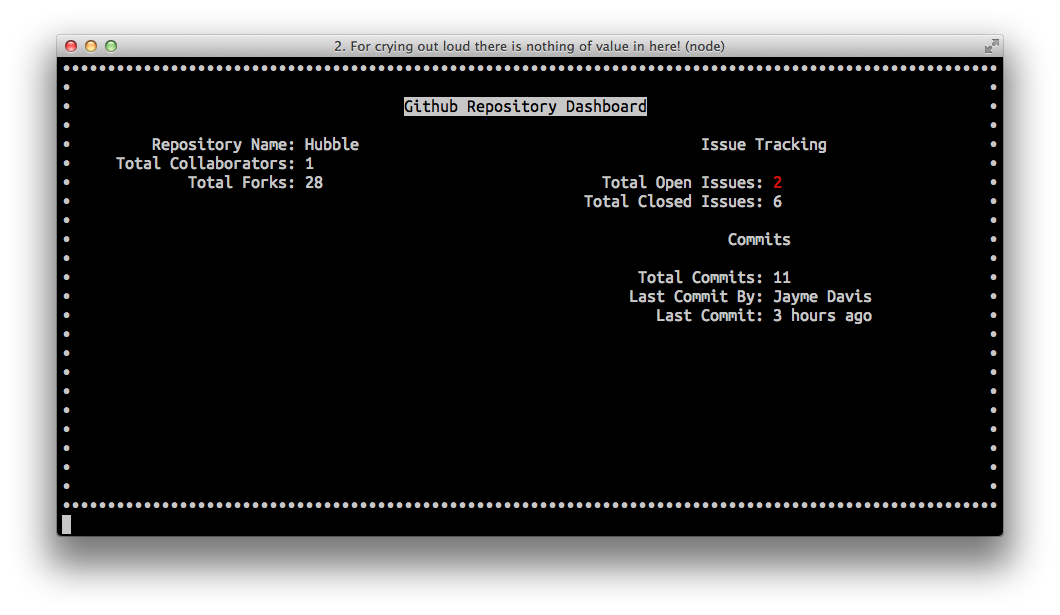
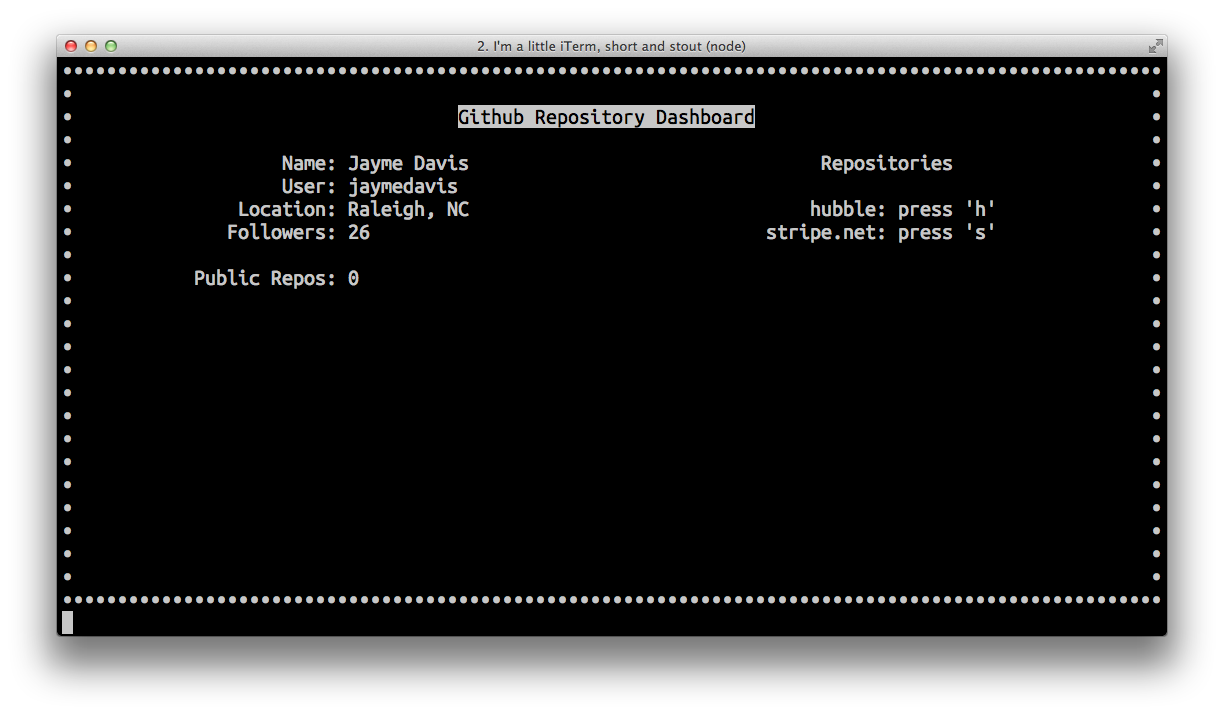
finished 'screen' feature, bumped version and updated readme

diff --git a/README.md b/README.md
@@ -72,6 +72,11 @@ If the value has been set and you want to increment it by one, you can set the v
 	high   - only works with numbers. this is the over-the-threshold amount (the number will display as configured in config.coffee [red])
 	low    - only works with numbers. this is the below-the-threshold amount (the number will display as configured in config.coffee [also red])
 
+### If you will be using multiple screens (pressing a key to toggle between them).
+	screen - a single key (example 'a' ... when you press a, this dashboard will show)
+
+At anytime, you can press escape to return to your default screen.
+
 A Simple Board with pre-set values
 ----------------------------------
 
@@ -96,10 +101,10 @@ If you have another cup of coffee, you can just increment a value that has alrea
 
 	curl --data "column=0&label=Coffee%20Drank%20Today&value=increment&high=4" http://localhost:9999/
 
-A polling example - a github repository dashboard!
---------------------------------------------------
+A polling example - a github repository dashboard
+-------------------------------------------------
 
-Let's setup a few API calls that we'll use for polling. We will track some information about our repository, and have it update every 10 seconds. Lets also change up the colors in the config just for fun. :)
+Let's setup a few API calls that we'll use for polling. We will track some information about our Github account, and have it update every 10 seconds. We will track two repositories on two different screens in addition to our overview screen. Lets also change up the colors in the config just for fun. :)
 
 	module.exports =
 		title:  'Github Repository Dashboard'
@@ -117,89 +122,202 @@ Let's setup a few API calls that we'll use for polling. We will track some infor
 
 		columns: 2 # how many vertical columns of data for your dashboard
 
-Note: if there are no commits for the project you are working with, there is nothing to count so it shows "Bummer :(". Also, you don't have to supply the '[github:username]:[github:password]' in the api requests, but it will allow you to poll more often (5000 requests per hour vs 60 requests per hour)
+You don't have to supply the '[github:username]:[github:password]' in the api requests, but it will allow you to poll more often (5000 requests per hour vs 60 requests per hour)
 
 	curl http://localhost:9999 \
+	-d column=0 \
+	-d label="Name" \
+	-d poll_url="https://[github:username]:[github:password]@api.github.com/users/jaymedavis" \
+	-d poll_seconds=10 \
+	-d poll_failed="Bummer :(" \
+	-d poll_method="json_value:^.[0].name"
+
+	curl http://localhost:9999 \
+	-d column=0 \
+	-d label="User" \
+	-d poll_url="https://[github:username]:[github:password]@api.github.com/users/jaymedavis" \
+	-d poll_seconds=10 \
+	-d poll_failed="Bummer :(" \
+	-d poll_method="json_value:^.[0].login"
+
+	curl http://localhost:9999 \
+	-d column=0 \
+	-d label="Location" \
+	-d poll_url="https://[github:username]:[github:password]@api.github.com/users/jaymedavis" \
+	-d poll_seconds=10 \
+	-d poll_failed="Bummer :(" \
+	-d poll_method="json_value:^.[0].location"
+
+	curl http://localhost:9999 \
+	-d column=0 \
+	-d label="Followers" \
+	-d poll_url="https://[github:username]:[github:password]@api.github.com/users/jaymedavis" \
+	-d poll_seconds=10 \
+	-d poll_failed="Bummer :(" \
+	-d poll_method="json_value:^.[0].followers"
+
+	curl http://localhost:9999 \
+	-d column=0 \
+
+	curl http://localhost:9999 \
+	-d column=0 \
+	-d label="Public Repos" \
+	-d poll_url="https://[github:username]:[github:password]@api.github.com/users/jaymedavis" \
+	-d poll_seconds=10 \
+	-d poll_failed="Bummer :(" \
+	-d poll_method="json_value:^.[0].public_repos"
+
+	curl http://localhost:9999 \
+	-d column=0 \
+	-d label="Public Repos" \
+	-d poll_url="https://[github:username]:[github:password]@api.github.com/users/jaymedavis" \
+	-d poll_seconds=10 \
+	-d poll_failed="Bummer :(" \
+	-d poll_method="json_value:^.[0].public_gists"
+
+	curl http://localhost:9999 \
+	-d column=1 \
+	-d label="Repositories"
+
+	curl http://localhost:9999 \
+	-d column=1 \
+
+	curl http://localhost:9999 \
+	-d column=1 \
+	-d label="hubble" \
+	-d value="press 'h'"
+
+	curl http://localhost:9999 \
+	-d column=1 \
+	-d label="stripe.net" \
+	-d value="press 's'"
+
+Your dashboard so far will look like below
+<img src="https://raw.github.com/jaymedavis/hubble/master/screenshots/github-dashboard.png" />
+
+Let's build another screen to track hubble by pressing the 'h' key. The curl request is the same as before, you just also pass in **screen=h** to specify "show this when h is pressed"
+
+	curl http://localhost:9999 \
+	-d screen="h" \
 	-d column=0 \
 	-d label="Repository Name" \
-	-d value="Hubble"
+	-d value="hubble"
 
 	curl http://localhost:9999 \
+	-d screen="h" \
 	-d column=0 \
-	-d label="Total Collaborators" \
-	-d poll_url="https://[github:username]:[github:password]@api.github.com/repos/jaymedavis/hubble/collaborators" \
+	-d label="Language" \
+	-d poll_url="https://[github:username]:[github:password]@api.github.com/repos/jaymedavis/hubble" \
 	-d poll_seconds=10 \
 	-d poll_failed="Bummer :(" \
-	-d poll_method="count_array"
+	-d poll_method="json_value:^.[0].language"
 
 	curl http://localhost:9999 \
+	-d screen="h" \
+	-d column=0
+
+	curl http://localhost:9999 \
+	-d screen="h" \
 	-d column=0 \
-	-d label="Total Forks" \
-	-d poll_url="https://[github:username]:[github:password]@api.github.com/repos/jaymedavis/hubble/forks" \
+	-d label="Watchers" \
+	-d poll_url="https://[github:username]:[github:password]@api.github.com/repos/jaymedavis/hubble" \
 	-d poll_seconds=10 \
 	-d poll_failed="Bummer :(" \
-	-d poll_method="count_array"
+	-d poll_method="json_value:^.[0].watchers_count"
 
 	curl http://localhost:9999 \
+	-d screen="h" \
+	-d column=0 \
+	-d label="Forks" \
+	-d poll_url="https://[github:username]:[github:password]@api.github.com/repos/jaymedavis/hubble" \
+	-d poll_seconds=10 \
+	-d poll_failed="Bummer :(" \
+	-d poll_method="json_value:^.[0].forks_count"
+
+	curl http://localhost:9999 \
+	-d screen="h" \
 	-d column=1 \
 	-d label="Issue Tracking"
 
 	curl http://localhost:9999 \
+	-d screen="h" \
 	-d column=1
 
 	curl http://localhost:9999 \
+	-d screen="h" \
 	-d column=1 \
 	-d label="Total Open Issues" \
 	-d high="1" \
-	-d poll_url="https://[github:username]:[github:password]@api.github.com/repos/jaymedavis/hubble/issues?state=open" \
+	-d poll_url="https://[github:username]:[github:password]@api.github.com/repos/jaymedavis/hubble" \
 	-d poll_seconds=10 \
 	-d poll_failed="Bummer :(" \
-	-d poll_method="count_array"
+	-d poll_method="json_value:^.[0].open_issues_count"
+
+If you press 'h', you will see something like below
+<img src="https://raw.github.com/jaymedavis/hubble/master/screenshots/github-screen-h.png" />
+
+Let's build another screen to track stripe.net by pressing the 's' key. The curl request is the same as before, you just also pass in **screen=s** to specify "show this when s is pressed"
 
 	curl http://localhost:9999 \
-	-d column=1 \
-	-d label="Total Closed Issues" \
-	-d poll_url="https://[github:username]:[github:password]@api.github.com/repos/jaymedavis/hubble/issues?state=closed" \
+	-d screen="s" \
+	-d column=0 \
+	-d label="Repository Name" \
+	-d value="stripe.net"
+
+	curl http://localhost:9999 \
+	-d screen="s" \
+	-d column=0 \
+	-d label="Language" \
+	-d poll_url="https://[github:username]:[github:password]@api.github.com/repos/jaymedavis/stripe.net" \
 	-d poll_seconds=10 \
 	-d poll_failed="Bummer :(" \
-	-d poll_method="count_array"
+	-d poll_method="json_value:^.[0].language"
 
 	curl http://localhost:9999 \
-	-d column=1 \
+	-d screen="s" \
+	-d column=0
 
 	curl http://localhost:9999 \
-	-d column=1 \
-	-d label="Commits"
-
-	curl http://localhost:9999 \
-	-d column=1 \
-
-	curl http://localhost:9999 \
-	-d column=1 \
-	-d label="Total Commits" \
-	-d poll_url="https://[github:username]:[github:password]@api.github.com/repos/jaymedavis/hubble/commits" \
+	-d screen="s" \
+	-d column=0 \
+	-d label="Watchers" \
+	-d poll_url="https://[github:username]:[github:password]@api.github.com/repos/jaymedavis/stripe.net" \
 	-d poll_seconds=10 \
 	-d poll_failed="Bummer :(" \
-	-d poll_method="count_array"
+	-d poll_method="json_value:^.[0].watchers_count"
 
 	curl http://localhost:9999 \
-	-d column=1 \
-	-d label="Last Commit By" \
-	-d poll_url="https://[github:username]:[github:password]@api.github.com/repos/jaymedavis/hubble/commits?page=1&per_page=1" \
+	-d screen="s" \
+	-d column=0 \
+	-d label="Forks" \
+	-d poll_url="https://[github:username]:[github:password]@api.github.com/repos/jaymedavis/stripe.net" \
 	-d poll_seconds=10 \
 	-d poll_failed="Bummer :(" \
-	-d poll_method="json_value:^.[0].commit.committer.name"
+	-d poll_method="json_value:^.[0].forks_count"
 
 	curl http://localhost:9999 \
+	-d screen="s" \
 	-d column=1 \
-	-d label="Last Commit" \
-	-d poll_url="https://[github:username]:[github:password]@api.github.com/repos/jaymedavis/hubble/commits?page=1&per_page=1" \
+	-d label="Issue Tracking"
+
+	curl http://localhost:9999 \
+	-d screen="s" \
+	-d column=1
+
+	curl http://localhost:9999 \
+	-d screen="s" \
+	-d column=1 \
+	-d label="Total Open Issues" \
+	-d high="1" \
+	-d poll_url="https://[github:username]:[github:password]@api.github.com/repos/jaymedavis/stripe.net" \
 	-d poll_seconds=10 \
 	-d poll_failed="Bummer :(" \
-	-d poll_method="json_value:^.[0].commit.committer.date"
+	-d poll_method="json_value:^.[0].open_issues_count"
 
-Your dashboard should now look like below and auto update every 10 seconds. :)
-<img src="https://raw.github.com/jaymedavis/hubble/master/screenshots/github-dashboard.png" />
+If you press 's', you will see something like below
+<img src="https://raw.github.com/jaymedavis/hubble/master/screenshots/github-screen-s.png" />
+
+If you want to go back to the main screen at anytime, just press escape. 
 
 Other Stuff
 -----------
